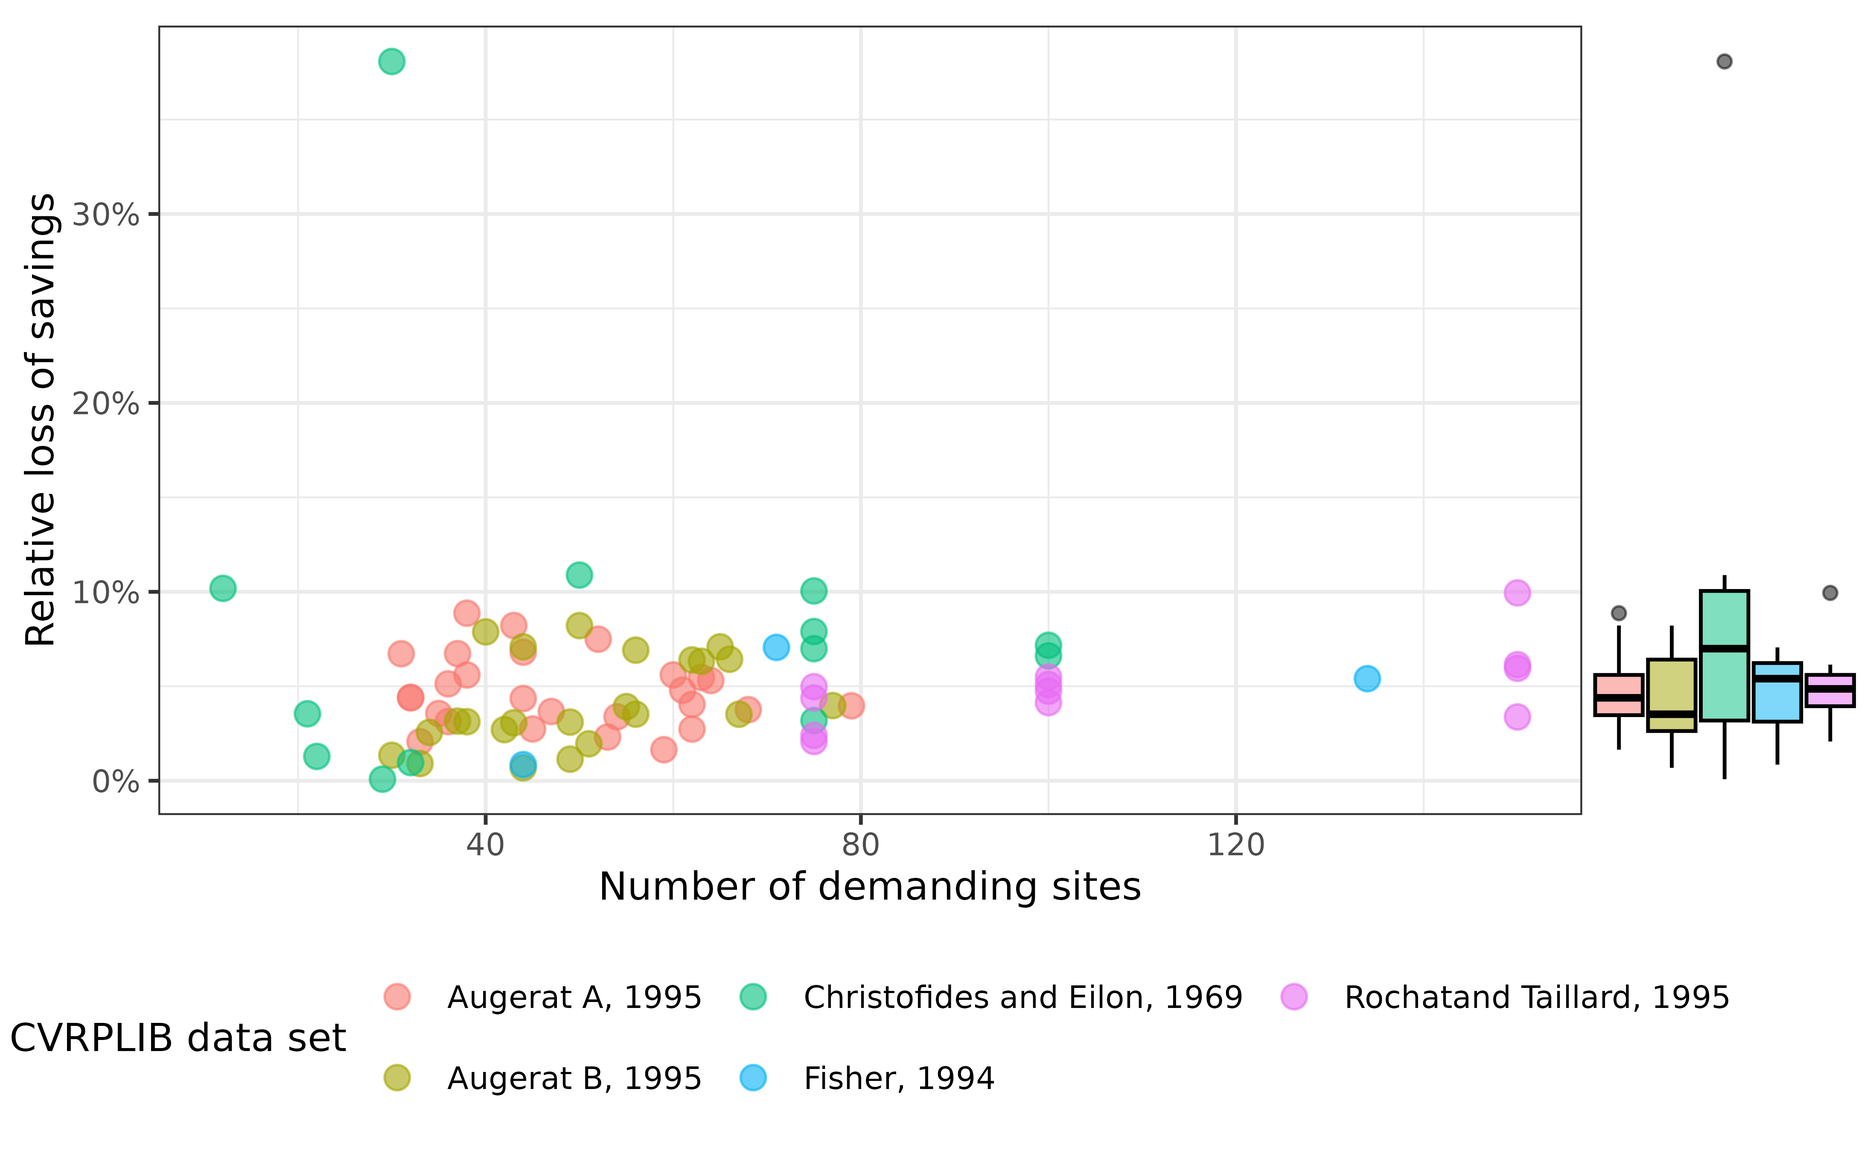
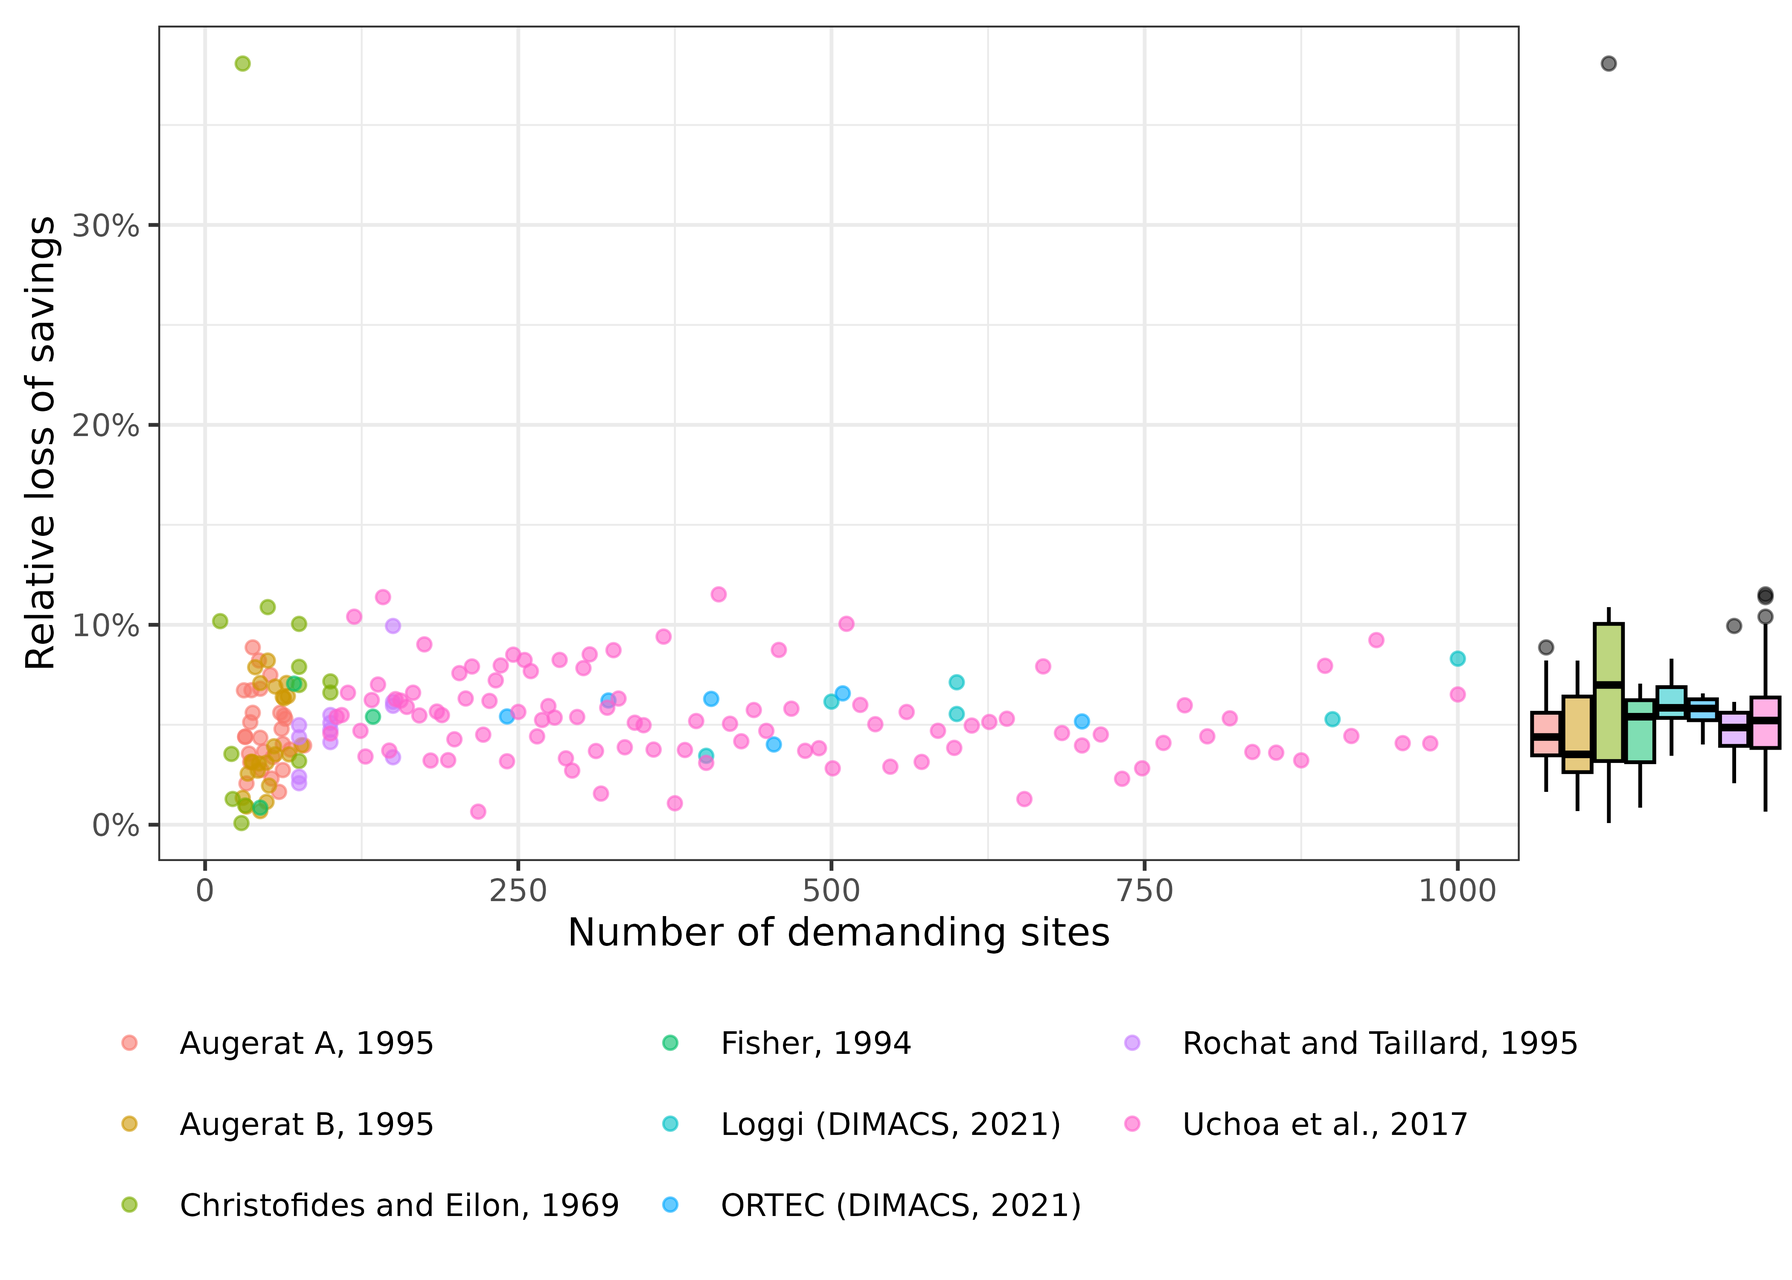
Deploying to gh-pages from @ lschneiderbauer/heumilkr@2eb511488e7d5f164020a55ea43861012dc72c48 🚀

diff --git a/articles/clarke_wright_performance.html b/articles/clarke_wright_performance.html
@@ -66,66 +66,93 @@
     
 <p>In this vignette we discuss performance benchmarks of the
 Clarke-Wright algorithm implemented in this package by comparing the
-Clarke-Wright solutions of a set of problem instances with their optimal
-value.</p>
+Clarke-Wright solutions of a set of problem instances with their best
+known value, and by measuring the run time on those instances.</p>
 <div class="section level3">
 <h3 id="the-problem-instance-data">The problem instance data<a class="anchor" aria-label="anchor" href="#the-problem-instance-data"></a>
 </h3>
 <p>The problem instances we are basing our measurements on are provided
 courtesy of <a href="https://galgos.inf.puc-rio.br/cvrplib/en/instances" class="external-link">CVRPLIB</a>
-and can be divided into five groups<a class="footnote-ref" tabindex="0" data-bs-toggle="popover" data-bs-content="&lt;p&gt;The naming is directly taken from &lt;a href=&quot;https://galgos.inf.puc-rio.br/cvrplib/en/instances&quot; class=&quot;external-link&quot;&gt;CVRPLIB&lt;/a&gt;&lt;/p&gt;"><sup>1</sup></a> of different characteristics:</p>
+and can be divided into eight groups<a class="footnote-ref" tabindex="0" data-bs-toggle="popover" data-bs-content="&lt;p&gt;The naming is directly taken from &lt;a href=&quot;https://galgos.inf.puc-rio.br/cvrplib/en/instances&quot; class=&quot;external-link&quot;&gt;CVRPLIB&lt;/a&gt;&lt;/p&gt;"><sup>1</sup></a> of different characteristics:</p>
 <ul>
 <li><p>Augerat A, 1995 (27 instances)</p></li>
 <li><p>Augerat B, 1995 (23 instances)</p></li>
 <li><p>Christofides and Eilon, 1969 (13 instances)</p></li>
 <li><p>Fisher, 1994 (3 instances)</p></li>
 <li><p>Rochat and Taillard, 1995 (12 instances)</p></li>
+<li><p>Uchoa et al., 2017 (100 generated instances with 100 to 1000
+sites)</p></li>
+<li><p>Loggi, DIMACS 2021 (6 instances with 400 to 1000 sites, extracted
+from real problems)</p></li>
+<li><p>ORTEC, DIMACS 2021 (6 instances with 241 to 700 sites, derived
+from real problems)</p></li>
 </ul>
 <p>The data provides the problem instance as well as the best known
 solution, whose cost is available as the field
 <code>best_known_cost</code> of each instance. CVRPLIB lists the best
-known solutions of all those instances as proven optimal, so we simply
-refer to them as optimal solutions below.</p>
+known solutions of all instances of the first five groups as proven
+optimal, but only for 61 of the 100 instances by Uchoa et al. and for
+none of the Loggi and ORTEC instances. For those, a better solution than
+the best known one might exist.</p>
+<p>The data of the first five groups is bundled with this package. The
+results for all groups are precomputed, so that building this vignette
+does not require downloading anything. See <code>data-raw/perf.R</code>
+in the <a href="https://github.com/lschneiderbauer/heumilkr" class="external-link">package
+source</a> for how they are obtained.</p>
 </div>
 <div class="section level2">
-<h2 id="relation-to-optimal-and-trivial-solution">Relation to optimal and trivial solution<a class="anchor" aria-label="anchor" href="#relation-to-optimal-and-trivial-solution"></a>
+<h2 id="relation-to-best-known-and-trivial-solution">Relation to best known and trivial solution<a class="anchor" aria-label="anchor" href="#relation-to-best-known-and-trivial-solution"></a>
 </h2>
 <p>The idea of this indicator is to measure where the Clarke-Wright
-solution sits in between the optimal solution and the trivial solution<a class="footnote-ref" tabindex="0" data-bs-toggle="popover" data-bs-content="&lt;p&gt;By trivial solution we mean the solution where each site
+solution sits in between the best known solution and the trivial
+solution<a class="footnote-ref" tabindex="0" data-bs-toggle="popover" data-bs-content="&lt;p&gt;By trivial solution we mean the solution where each site
 is assigned exactly one route (which goes back and forth).&lt;/p&gt;"><sup>2</sup></a>. Let
 <math display="inline" xmlns="http://www.w3.org/1998/Math/MathML"><semantics><mi>γ</mi><annotation encoding="application/x-tex">\gamma</annotation></semantics></math>
 be the cost of the Clarke-Wright solution,
 <math display="inline" xmlns="http://www.w3.org/1998/Math/MathML"><semantics><mi>ω</mi><annotation encoding="application/x-tex">\omega</annotation></semantics></math>
-the cost of the optimal solution, and
+the cost of the best known solution, and
 <math display="inline" xmlns="http://www.w3.org/1998/Math/MathML"><semantics><mi>α</mi><annotation encoding="application/x-tex">\alpha</annotation></semantics></math>
 the cost of the trivial solution. The measure
 <math display="inline" xmlns="http://www.w3.org/1998/Math/MathML"><semantics><mi>ξ</mi><annotation encoding="application/x-tex">\xi</annotation></semantics></math>
 is defined to be
 <math display="block" xmlns="http://www.w3.org/1998/Math/MathML"><semantics><mrow><mi>ξ</mi><mo>:=</mo><mn>1</mn><mo>−</mo><mfrac><mrow><mi>γ</mi><mo>−</mo><mi>ω</mi></mrow><mrow><mi>α</mi><mo>−</mo><mi>ω</mi></mrow></mfrac><mspace width="0.167em"></mspace><mi>.</mi></mrow><annotation encoding="application/x-tex">\xi := 1 - \frac{\gamma - \omega}{\alpha - \omega}\,.</annotation></semantics></math>
 The measure can move between zero and 1. It is zero if the solution is
-the trivial solution, and it is one if the solution is the optimal
+the trivial solution, and it is one if the solution is the best known
 solution.</p>
 <p>Evaluating this for CVRPLIB sample data yields the following
 graph.</p>
 <p><img src="clarke_wright_performance_files/figure-html/perf_scale_based_graph-1.png" class="r-plt" alt="" width="100%"></p>
 <p>The mean value over all problem instances is
-<math display="inline" xmlns="http://www.w3.org/1998/Math/MathML"><semantics><mrow><mover><mi>ξ</mi><mo accent="true">¯</mo></mover><mo>=</mo><mn>98.6</mn><mi>%</mi></mrow><annotation encoding="application/x-tex">\overline{\xi}=98.6\%</annotation></semantics></math>.</p>
+<math display="inline" xmlns="http://www.w3.org/1998/Math/MathML"><semantics><mrow><mover><mi>ξ</mi><mo accent="true">¯</mo></mover><mo>=</mo><mn>98.9</mn><mi>%</mi></mrow><annotation encoding="application/x-tex">\overline{\xi}=98.9\%</annotation></semantics></math>.</p>
 </div>
 <div class="section level2">
-<h2 id="relative-deviation-of-optimal-solution">Relative deviation of optimal solution<a class="anchor" aria-label="anchor" href="#relative-deviation-of-optimal-solution"></a>
+<h2 id="relative-deviation-from-best-known-solution">Relative deviation from best known solution<a class="anchor" aria-label="anchor" href="#relative-deviation-from-best-known-solution"></a>
 </h2>
 <p>We can also simply measure the relative deviation of the
-Clarke-Wright cost to the optimal cost,
+Clarke-Wright cost to the best known cost,
 <math display="block" xmlns="http://www.w3.org/1998/Math/MathML"><semantics><mrow><mi>ρ</mi><mo>:=</mo><mfrac><mrow><mi>γ</mi><mo>−</mo><mi>ω</mi></mrow><mi>γ</mi></mfrac><mspace width="0.167em"></mspace><mo>,</mo></mrow><annotation encoding="application/x-tex">\rho := \frac{\gamma - \omega}{\gamma}\,,</annotation></semantics></math>
 which measures how much savings we miss by using the Clarke-Wright
-solution instead of the optimal solution.</p>
+solution instead of the best known solution.</p>
 <p><img src="clarke_wright_performance_files/figure-html/perf_rel_graph-1.png" class="r-plt" alt="" width="100%"></p>
 <p>The mean value over all problem instances is
-<math display="inline" xmlns="http://www.w3.org/1998/Math/MathML"><semantics><mrow><mover><mi>ρ</mi><mo accent="true">¯</mo></mover><mo>=</mo><mn>5.1</mn><mi>%</mi></mrow><annotation encoding="application/x-tex">\overline{\rho}=5.1\%</annotation></semantics></math>,
+<math display="inline" xmlns="http://www.w3.org/1998/Math/MathML"><semantics><mrow><mover><mi>ρ</mi><mo accent="true">¯</mo></mover><mo>=</mo><mn>5.3</mn><mi>%</mi></mrow><annotation encoding="application/x-tex">\overline{\rho}=5.3\%</annotation></semantics></math>,
 i.e. on average, we miss out on around
-<math display="inline" xmlns="http://www.w3.org/1998/Math/MathML"><semantics><mrow><mn>5.1</mn><mi>%</mi></mrow><annotation encoding="application/x-tex">5.1\%</annotation></semantics></math>
-savings taking the Clarke-Wright solution compared to the optimal
-one.</p>
+<math display="inline" xmlns="http://www.w3.org/1998/Math/MathML"><semantics><mrow><mn>5.3</mn><mi>%</mi></mrow><annotation encoding="application/x-tex">5.3\%</annotation></semantics></math>
+savings taking the Clarke-Wright solution compared to the best known
+one. For the instances derived from real problems (Loggi and ORTEC) it
+amounts to
+<math display="inline" xmlns="http://www.w3.org/1998/Math/MathML"><semantics><mrow><mn>5.8</mn><mi>%</mi></mrow><annotation encoding="application/x-tex">5.8\%</annotation></semantics></math>.</p>
+</div>
+<div class="section level2">
+<h2 id="run-time">Run time<a class="anchor" aria-label="anchor" href="#run-time"></a>
+</h2>
+<p>The following graph shows the median run time of
+<code><a href="../reference/clarke_wright_cvrplib.html">clarke_wright_cvrplib()</a></code> for each instance, on an Intel®
+Xeon® CPU E3-1231 v3 @ 3.40GHz.</p>
+<p><img src="clarke_wright_performance_files/figure-html/runtime_graph-1.png" class="r-plt" alt="" width="100%"></p>
+<p>The slowest of the instances with 1000 sites takes around
+<math display="inline" xmlns="http://www.w3.org/1998/Math/MathML"><semantics><mn>118</mn><annotation encoding="application/x-tex">118</annotation></semantics></math>
+ms.</p>
 </div>
 
   </main><aside class="col-md-3"><nav id="toc" aria-label="Table of contents"><h2>On this page</h2>

diff --git a/news/index.html b/news/index.html
@@ -47,7 +47,8 @@
 </ul></div>
 <div class="section level3">
 <h3 id="new-features--improvements-development-version">New features / improvements<a class="anchor" aria-label="anchor" href="#new-features--improvements-development-version"></a></h3>
-<ul><li><p><code><a href="../reference/clarke_wright.html">clarke_wright()</a></code> now supports negative demands: sites with negative demand are treated as “backhaul” points, i.e. they deliver goods back to the depot. Sites with positive and negative demands can be visited in any order within a run, as long as the load stays within the vehicle capacity at every point of the run. Negative demands that exceed vehicle capacities are split across multiple runs, like positive demands.</p></li>
+<ul><li><p><code><a href="../reference/cvrplib_download.html">cvrplib_download()</a></code> now accepts a vector of qualifiers and returns a named list of instances in that case. The list of available instances is only requested once. A single qualifier still returns the instance itself.</p></li>
+<li><p><code><a href="../reference/clarke_wright.html">clarke_wright()</a></code> now supports negative demands: sites with negative demand are treated as “backhaul” points, i.e. they deliver goods back to the depot. Sites with positive and negative demands can be visited in any order within a run, as long as the load stays within the vehicle capacity at every point of the run. Negative demands that exceed vehicle capacities are split across multiple runs, like positive demands.</p></li>
 <li><p><code><a href="../reference/clarke_wright.html">clarke_wright()</a></code> has gained a large runtime speedup compared to the previous version: for 500 sites the run time drops from about 6 seconds to about 0.01 seconds in our benchmarks. The actual speedup depends on input characteristics and grows with the number of sites.</p></li>
 <li><p><code><a href="../reference/clarke_wright.html">clarke_wright()</a></code>: Results are now deterministic, also in case of tied savings. Run identifiers follow the order of run creation.</p></li>
 </ul></div>

diff --git a/reference/cvrplib_download.html b/reference/cvrplib_download.html
@@ -65,7 +65,9 @@ benchmarking / comparing speed as well as performance of solvers.</p>
 <dl><dt id="arg-qualifier">qualifier<a class="anchor" aria-label="anchor" href="#arg-qualifier"></a></dt>
 <dd><p>The qualifier of the problem instance. E.g. "tai150d".
 This can either be inferred directly from the website or by the output of
-<code><a href="cvrplib_ls.html">cvrplib_ls()</a></code>.</p></dd>
+<code><a href="cvrplib_ls.html">cvrplib_ls()</a></code>. Can be a vector to download several instances at once, which
+is preferable to repeated calls since the list of available instances is only
+requested once.</p></dd>
 
 
 <dt id="arg-cvrplib-url">cvrplib_url<a class="anchor" aria-label="anchor" href="#arg-cvrplib-url"></a></dt>
@@ -74,7 +76,10 @@ This can either be inferred directly from the website or by the output of
 </dl></div>
     <div class="section level2">
     <h2 id="value">Value<a class="anchor" aria-label="anchor" href="#value"></a></h2>
-    <p>Returns a "<code>cvrplib_instance</code>" object which contains CVRPLIB problem
+    <p>For a single qualifier, returns a "<code>cvrplib_instance</code>" object. For several
+qualifiers, returns a <code><a href="https://rdrr.io/r/base/list.html" class="external-link">list()</a></code> of those objects, named by qualifier. Note that
+a vector of length one counts as a single qualifier.</p>
+<p>A "<code>cvrplib_instance</code>" object contains CVRPLIB problem
 instance data. Its <code>best_known_cost</code> is the cost of the best known solution
 provided by CVRPLIB (not necessarily a proven optimum), or <code>NA</code> if CVRPLIB
 provides no solution file for the instance. A solution file that exists but

diff --git a/articles/clarke_wright_performance.md b/articles/clarke_wright_performance.md
@@ -2,14 +2,15 @@
 
 In this vignette we discuss performance benchmarks of the Clarke-Wright
 algorithm implemented in this package by comparing the Clarke-Wright
-solutions of a set of problem instances with their optimal value.
+solutions of a set of problem instances with their best known value, and
+by measuring the run time on those instances.
 
 ### The problem instance data
 
 The problem instances we are basing our measurements on are provided
 courtesy of
 [CVRPLIB](https://galgos.inf.puc-rio.br/cvrplib/en/instances) and can be
-divided into five groups[^1] of different characteristics:
+divided into eight groups[^1] of different characteristics:
 
 - Augerat A, 1995 (27 instances)
 
@@ -21,47 +22,73 @@ divided into five groups[^1] of different characteristics:
 
 - Rochat and Taillard, 1995 (12 instances)
 
+- Uchoa et al., 2017 (100 generated instances with 100 to 1000 sites)
+
+- Loggi, DIMACS 2021 (6 instances with 400 to 1000 sites, extracted from
+  real problems)
+
+- ORTEC, DIMACS 2021 (6 instances with 241 to 700 sites, derived from
+  real problems)
+
 The data provides the problem instance as well as the best known
 solution, whose cost is available as the field `best_known_cost` of each
-instance. CVRPLIB lists the best known solutions of all those instances
-as proven optimal, so we simply refer to them as optimal solutions
-below.
+instance. CVRPLIB lists the best known solutions of all instances of the
+first five groups as proven optimal, but only for 61 of the 100
+instances by Uchoa et al. and for none of the Loggi and ORTEC instances.
+For those, a better solution than the best known one might exist.
 
-## Relation to optimal and trivial solution
+The data of the first five groups is bundled with this package. The
+results for all groups are precomputed, so that building this vignette
+does not require downloading anything. See `data-raw/perf.R` in the
+[package source](https://github.com/lschneiderbauer/heumilkr) for how
+they are obtained.
+
+## Relation to best known and trivial solution
 
 The idea of this indicator is to measure where the Clarke-Wright
-solution sits in between the optimal solution and the trivial
+solution sits in between the best known solution and the trivial
 solution[^2]. Let $`\gamma`$ be the cost of the Clarke-Wright solution,
-$`\omega`$ the cost of the optimal solution, and $`\alpha`$ the cost of
-the trivial solution. The measure $`\xi`$ is defined to be
+$`\omega`$ the cost of the best known solution, and $`\alpha`$ the cost
+of the trivial solution. The measure $`\xi`$ is defined to be
 ``` math
 \xi := 1 - \frac{\gamma - \omega}{\alpha - \omega}\,.
 ```
 The measure can move between zero and 1. It is zero if the solution is
-the trivial solution, and it is one if the solution is the optimal
+the trivial solution, and it is one if the solution is the best known
 solution.
 
 Evaluating this for CVRPLIB sample data yields the following graph.
 
 ![](clarke_wright_performance_files/figure-html/perf_scale_based_graph-1.png)
 
-The mean value over all problem instances is $`\overline{\xi}=98.6\%`$.
+The mean value over all problem instances is $`\overline{\xi}=98.9\%`$.
 
-## Relative deviation of optimal solution
+## Relative deviation from best known solution
 
 We can also simply measure the relative deviation of the Clarke-Wright
-cost to the optimal cost,
+cost to the best known cost,
 ``` math
 \rho := \frac{\gamma - \omega}{\gamma}\,,
 ```
 which measures how much savings we miss by using the Clarke-Wright
-solution instead of the optimal solution.
+solution instead of the best known solution.
 
 ![](clarke_wright_performance_files/figure-html/perf_rel_graph-1.png)
 
-The mean value over all problem instances is $`\overline{\rho}=5.1\%`$,
-i.e. on average, we miss out on around $`5.1\%`$ savings taking the
-Clarke-Wright solution compared to the optimal one.
+The mean value over all problem instances is $`\overline{\rho}=5.3\%`$,
+i.e. on average, we miss out on around $`5.3\%`$ savings taking the
+Clarke-Wright solution compared to the best known one. For the instances
+derived from real problems (Loggi and ORTEC) it amounts to $`5.8\%`$.
+
+## Run time
+
+The following graph shows the median run time of
+[`clarke_wright_cvrplib()`](https://lschneiderbauer.github.io/heumilkr/reference/clarke_wright_cvrplib.md)
+for each instance, on an Intel® Xeon® CPU E3-1231 v3 @ 3.40GHz.
+
+![](clarke_wright_performance_files/figure-html/runtime_graph-1.png)
+
+The slowest of the instances with 1000 sites takes around $`118`$ ms.
 
 [^1]: The naming is directly taken from
     [CVRPLIB](https://galgos.inf.puc-rio.br/cvrplib/en/instances)

diff --git a/reference/cvrplib_download.md b/reference/cvrplib_download.md
@@ -21,6 +21,9 @@ cvrplib_download(qualifier, cvrplib_url = "https://galgos.inf.puc-rio.br")
   The qualifier of the problem instance. E.g. "tai150d". This can either
   be inferred directly from the website or by the output of
   [`cvrplib_ls()`](https://lschneiderbauer.github.io/heumilkr/reference/cvrplib_ls.md).
+  Can be a vector to download several instances at once, which is
+  preferable to repeated calls since the list of available instances is
+  only requested once.
 
 - cvrplib_url:
 
@@ -29,11 +32,17 @@ cvrplib_download(qualifier, cvrplib_url = "https://galgos.inf.puc-rio.br")
 
 ## Value
 
-Returns a "`cvrplib_instance`" object which contains CVRPLIB problem
-instance data. Its `best_known_cost` is the cost of the best known
-solution provided by CVRPLIB (not necessarily a proven optimum), or `NA`
-if CVRPLIB provides no solution file for the instance. A solution file
-that exists but can not be downloaded raises an error.
+For a single qualifier, returns a "`cvrplib_instance`" object. For
+several qualifiers, returns a
+[`list()`](https://rdrr.io/r/base/list.html) of those objects, named by
+qualifier. Note that a vector of length one counts as a single
+qualifier.
+
+A "`cvrplib_instance`" object contains CVRPLIB problem instance data.
+Its `best_known_cost` is the cost of the best known solution provided by
+CVRPLIB (not necessarily a proven optimum), or `NA` if CVRPLIB provides
+no solution file for the instance. A solution file that exists but can
+not be downloaded raises an error.
 
 Instances defined by an explicit distance matrix store it as
 `distances`, a `dist` object, and have `NA` coordinates in `pos`.

diff --git a/news/index.md b/news/index.md
@@ -24,6 +24,11 @@
 
 ### New features / improvements
 
+- [`cvrplib_download()`](https://lschneiderbauer.github.io/heumilkr/reference/cvrplib_download.md)
+  now accepts a vector of qualifiers and returns a named list of
+  instances in that case. The list of available instances is only
+  requested once. A single qualifier still returns the instance itself.
+
 - [`clarke_wright()`](https://lschneiderbauer.github.io/heumilkr/reference/clarke_wright.md)
   now supports negative demands: sites with negative demand are treated
   as “backhaul” points, i.e. they deliver goods back to the depot. Sites
